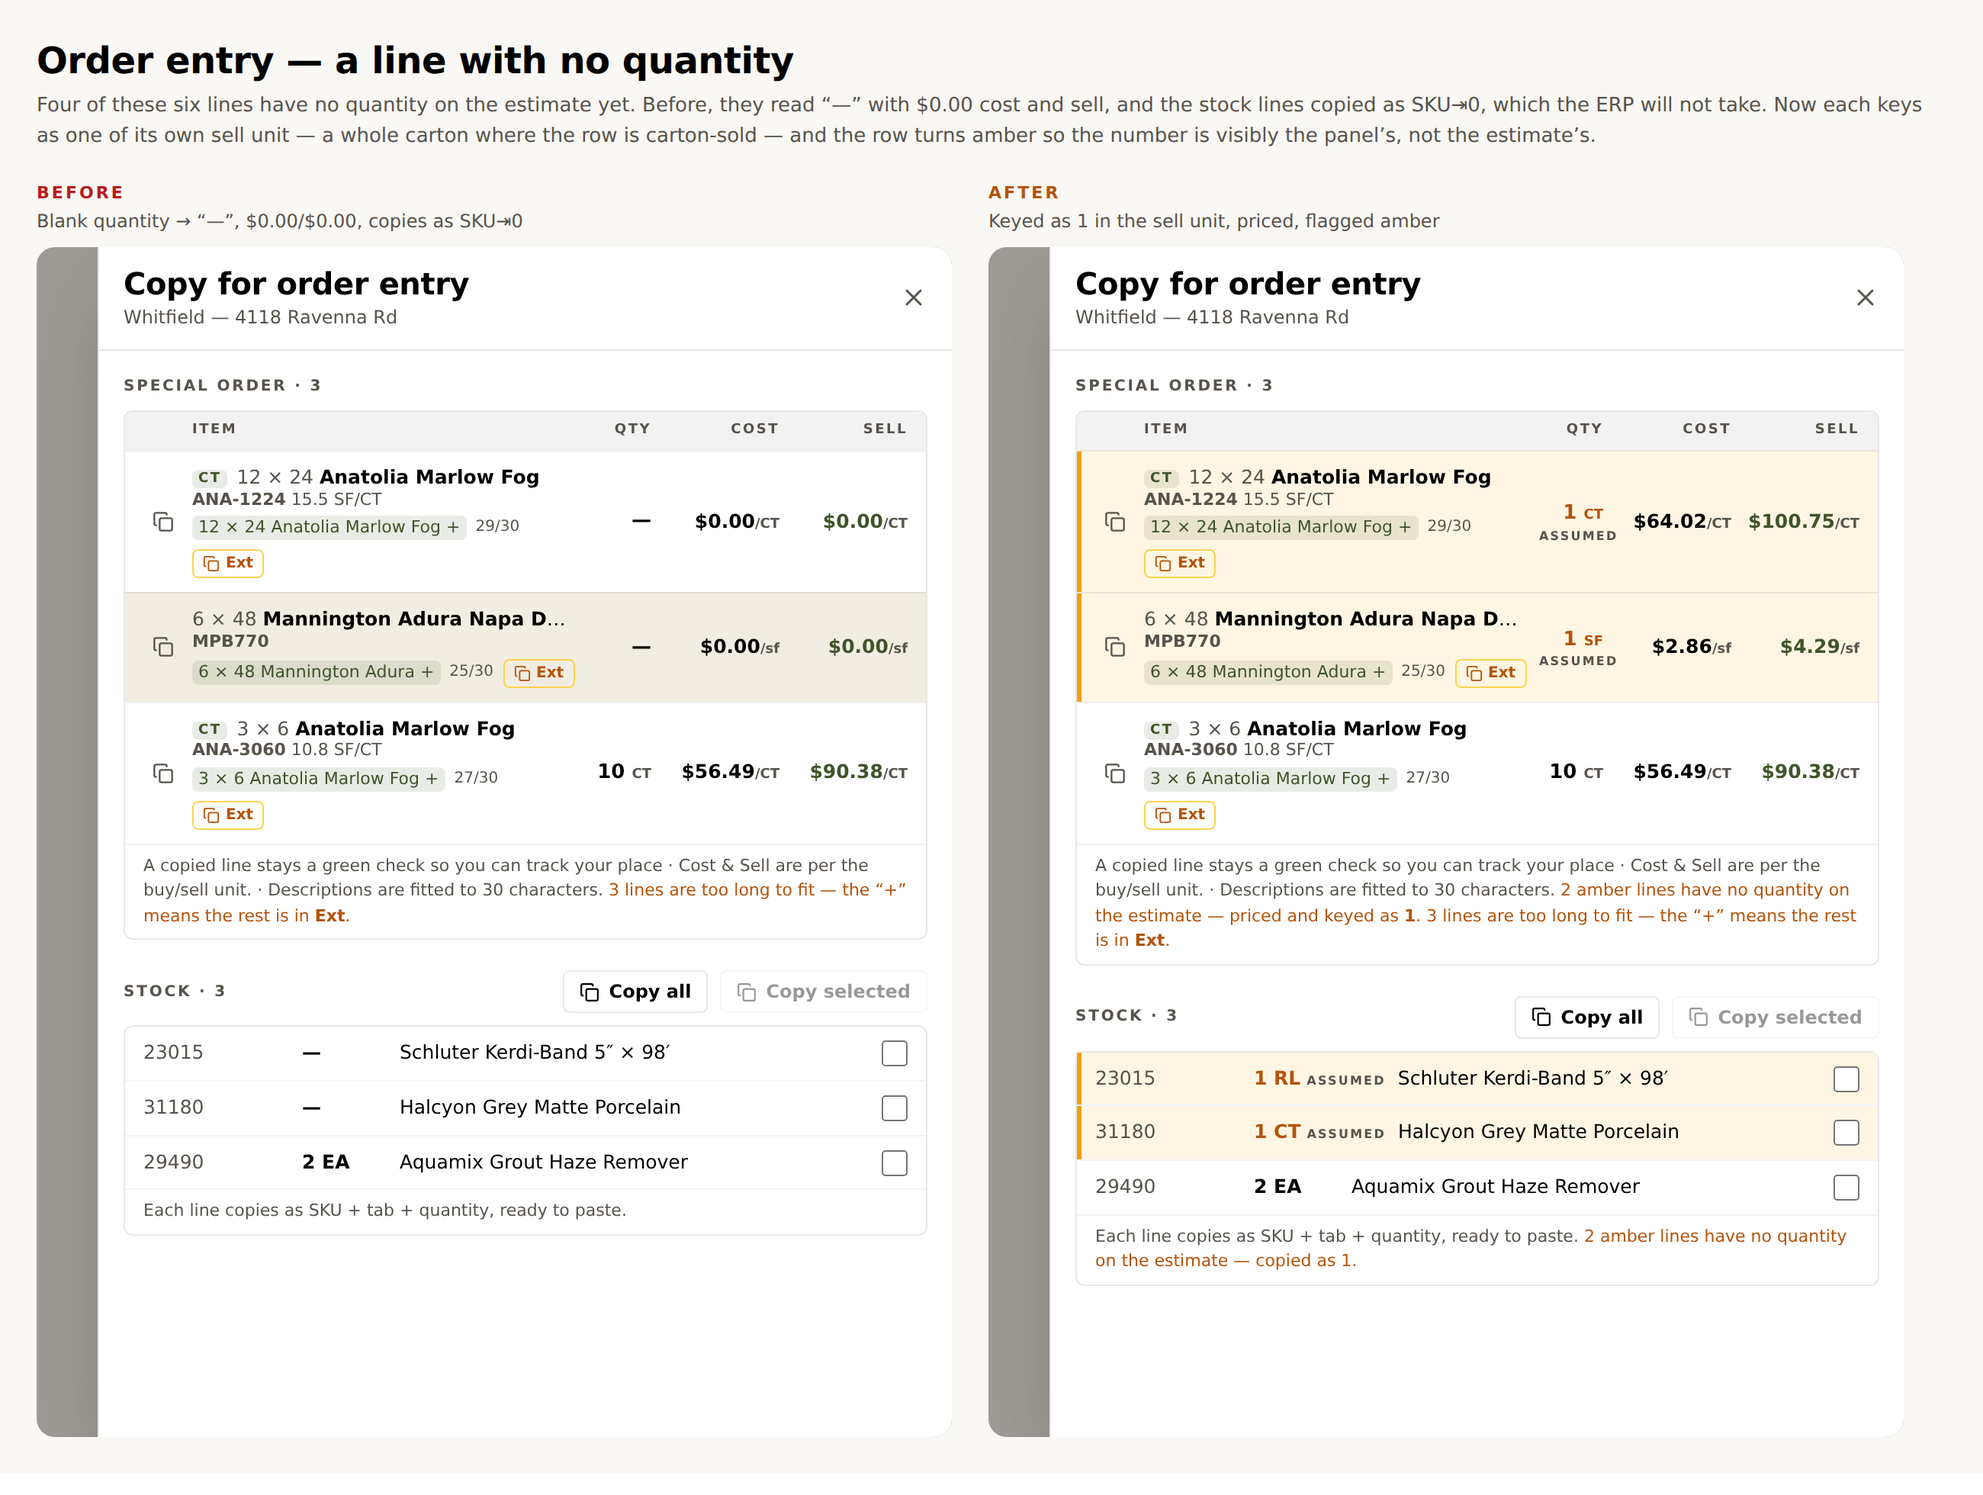
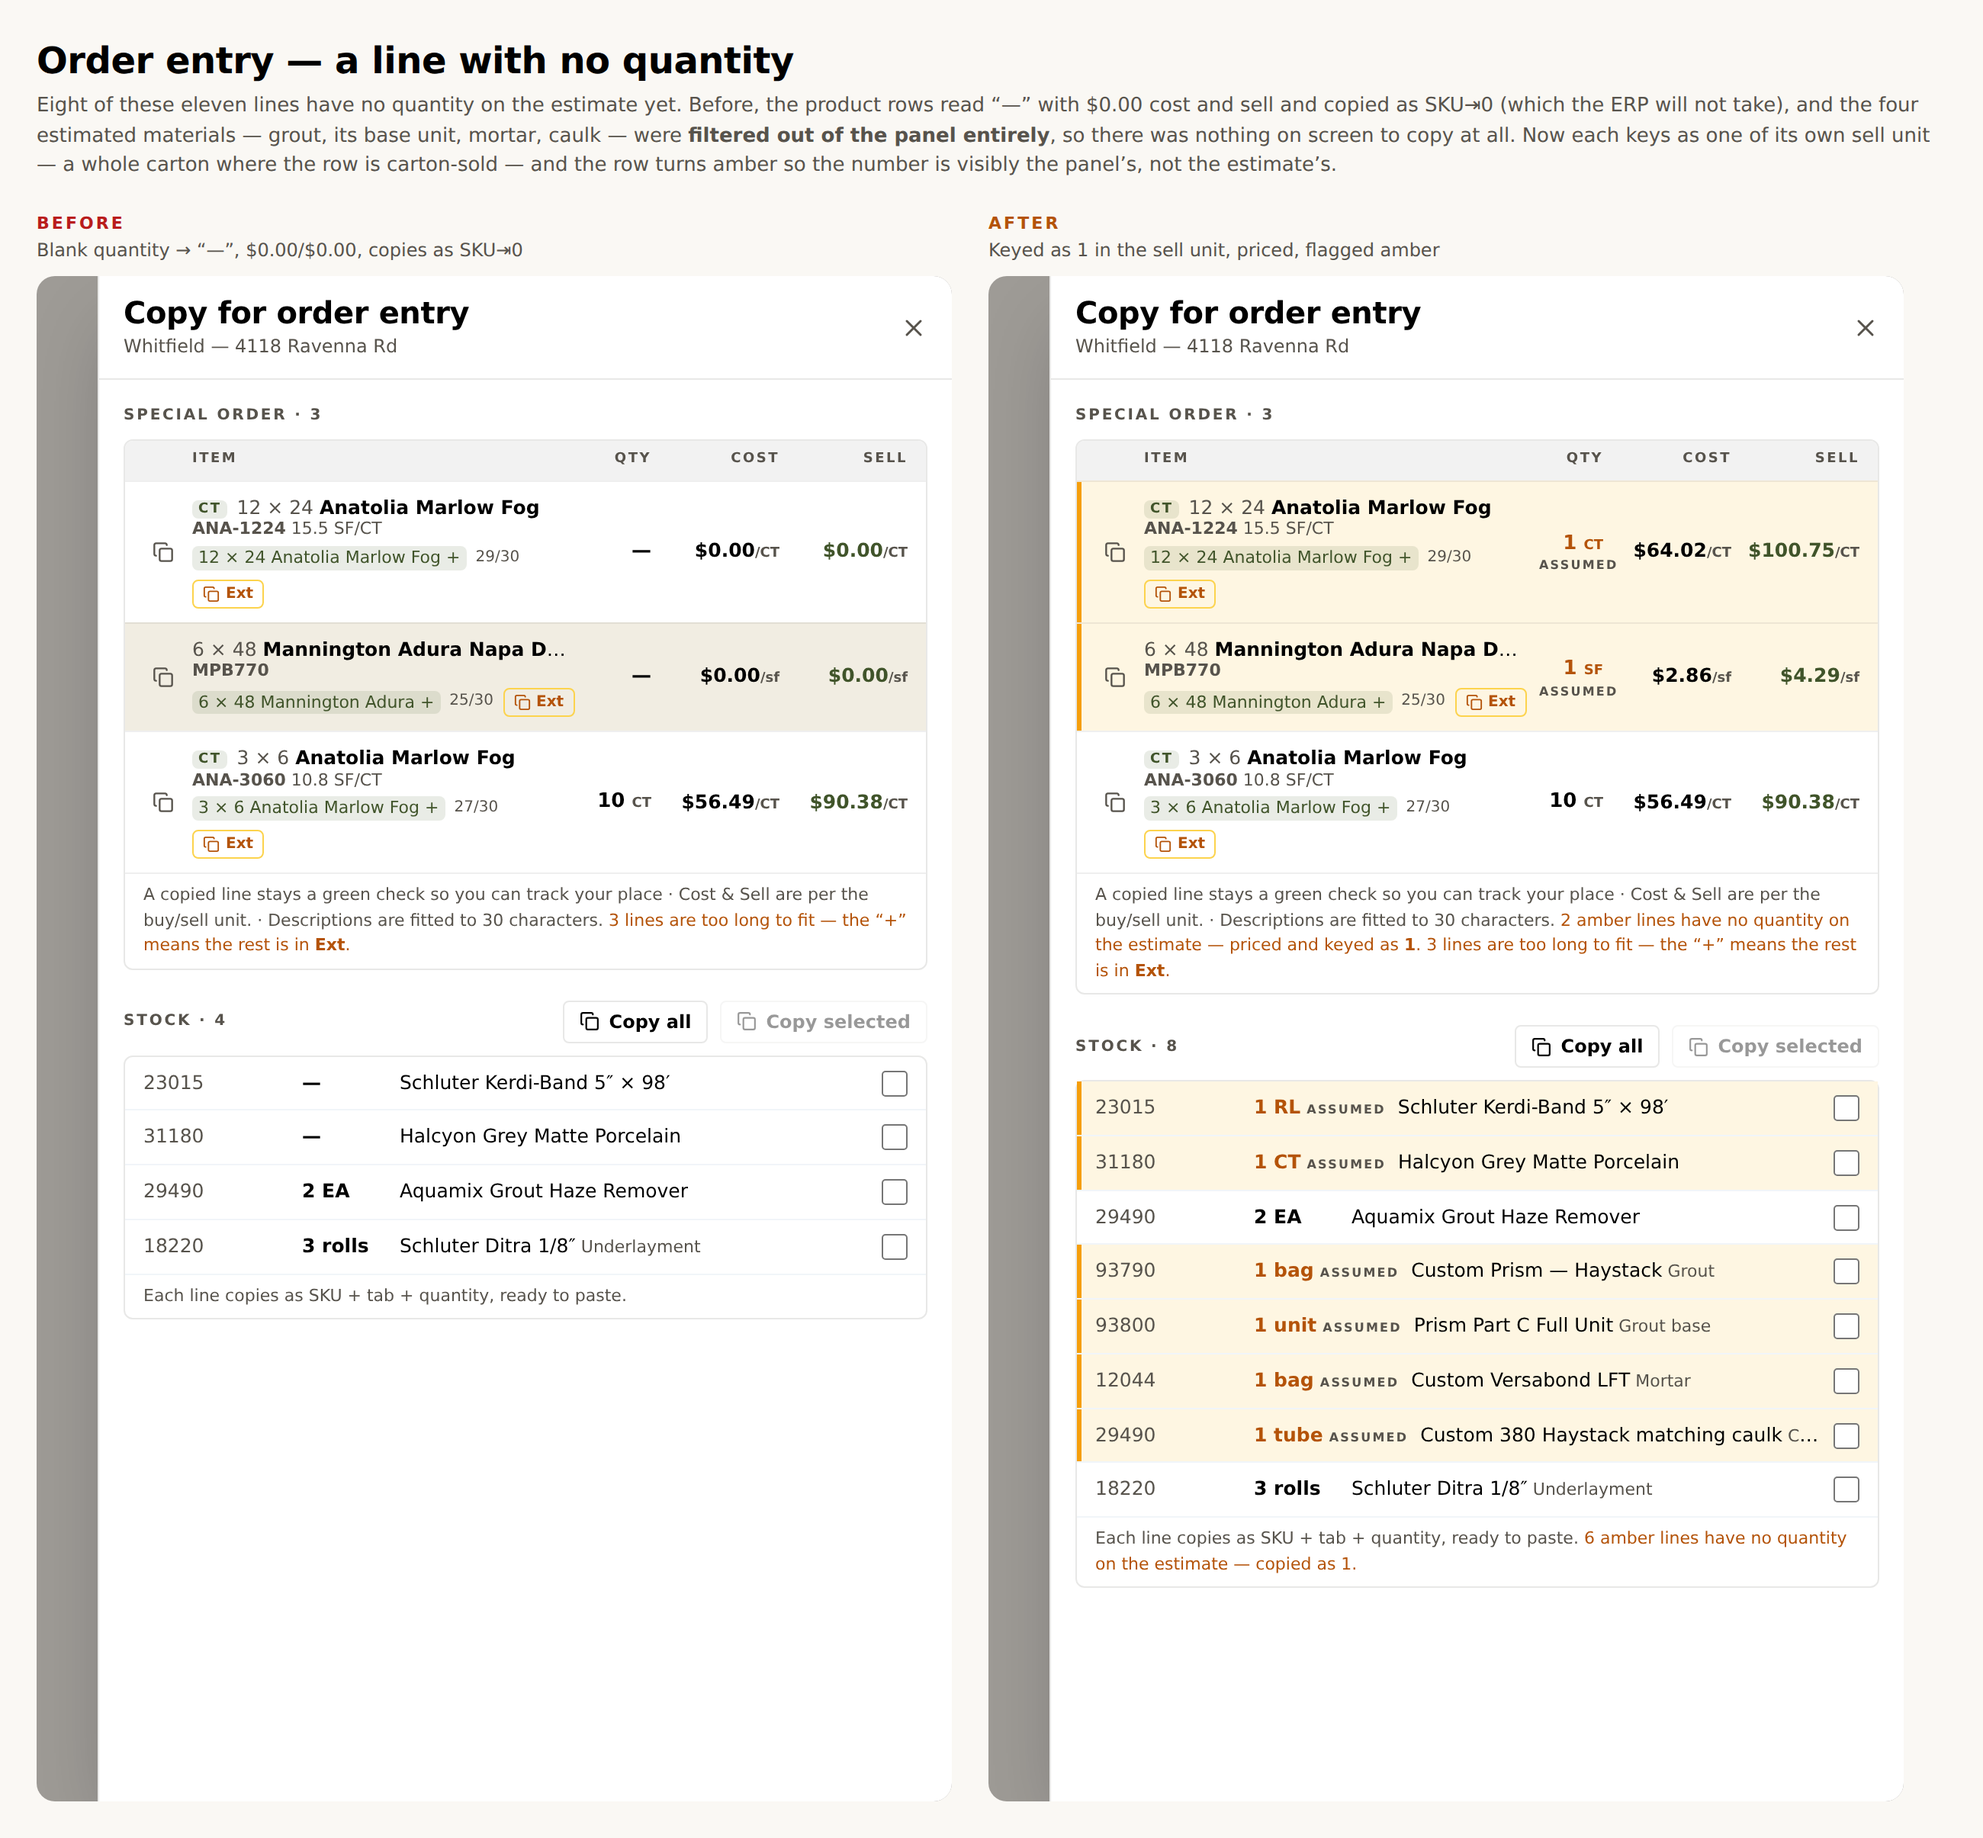
Order entry: include the estimated materials with no quantity
Follow-up to the previous commit. A checked grout/mortar/underlayment chip
whose quantity can't be computed yet already aggregates as a "pending" line at
order 0, and groutBaseList carries its base unit the same way — but matLines
filtered order > 0, so the panel never saw them. That wasn't a bad quantity on
screen, it was no row at all: nothing to copy for a material the desk still has
to key.

The flatten is now matAll (unfiltered), with matLines = matAll.filter(order > 0)
derived from it. The panel takes matAll through the same orderQty, so a pending
grout keys as "1 bag" in amber. The printed order sheet keeps matLines — that's
the sheet the warehouse pulls from, where a 1 nobody measured is a wrong pull.

Quantities singularize through u1, so a keyed-as-one line reads "1 bag", not
"1 bags", matching the order sheet.

Preview reshot with all four material lines: .scratch/057_order-entry-zero-qty/
782 tests pass; lint and build clean.

Claude-Session: https://claude.ai/code/session_01XbB9rkpASWuRbZkPEfx7bh

diff --git a/.scratch/057_order-entry-zero-qty/preview.jsx b/.scratch/057_order-entry-zero-qty/preview.jsx
@@ -9,7 +9,8 @@
 import React from "react";
 import { createRoot } from "react-dom/client";
 import { OrderEntryPanel } from "../../src/orderentry.jsx";
-import { orderEntryRow } from "../../src/print.js";
+import { orderEntryRow, u1 } from "../../src/print.js";
+import { orderQty } from "../../src/orderentry.js";
 import { normalizeSettings } from "../../src/catalog.js";
 import { newProduct } from "../../src/model.js";
 import "../../src/index.css";
@@ -31,9 +32,29 @@ const PRODUCTS = [
   row({ id: "p6", type: "misc", qtyType: "count", sku: "29490", brandColor: "Aquamix Grout Haze Remover", bookId: "bkOHIVA", priceSqft: "14.24", qty: "2" }),
 ];
 
-const AFTER = PRODUCTS.map((p) => orderEntryRow(p, s, "Master Bath", 30, STOCK_BOOKS));
-// The old outcome for exactly the rows the change touches.
-const BEFORE = AFTER.map((r) => (r.qtyAssumed ? { ...r, qty: 0, qtyText: "—", perCost: 0, perSell: 0, qtyAssumed: false } : r));
+// The estimated materials, exactly as App.jsx flattens them (matAll → orderQty).
+// A grout/mortar chip that's checked but can't compute yet aggregates as a
+// "pending" line at order 0 — before, the panel filtered those out entirely, so
+// the material the desk still has to key simply wasn't on the screen to copy.
+const MATERIALS = [
+  { sku: "93790", product: "Custom Prism — Haystack", kind: "Grout", unit: "bags", order: 0 },
+  { sku: "93800", product: "Prism Part C Full Unit", kind: "Grout base", unit: "units", order: 0 },
+  { sku: "12044", product: "Custom Versabond LFT", kind: "Mortar", unit: "bags", order: 0 },
+  { sku: "29490", product: "Custom 380 Haystack matching caulk", kind: "Caulk", unit: "tubes", order: 0 },
+  { sku: "18220", product: "Schluter Ditra 1/8″", kind: "Underlayment", unit: "rolls", order: 3 },
+];
+
+const matRows = (list) => list.map((m, i) => {
+  const { qty, qtyAssumed } = orderQty(m.order);
+  return { id: "mat" + i, sku: m.sku, qty, qtyAssumed, qtyText: `${qty} ${u1(qty, m.unit)}`, name: m.product, kind: m.kind };
+});
+
+const AFTER = [...PRODUCTS.map((p) => orderEntryRow(p, s, "Master Bath", 30, STOCK_BOOKS)), ...matRows(MATERIALS)];
+// The old outcome: quantity-less product rows read "—" at $0.00, and a
+// quantity-less MATERIAL was filtered out of the panel before it ever rendered.
+const BEFORE = AFTER
+  .filter((r) => !(r.qtyAssumed && r.kind))
+  .map((r) => (r.qtyAssumed ? { ...r, qty: 0, qtyText: "—", perCost: 0, perSell: 0, qtyAssumed: false } : r));
 
 const split = (rows) => ({ special: rows.filter((r) => r.special), stock: rows.filter((r) => !r.special) });
 
@@ -47,7 +68,7 @@ function Pane({ title, note, rows, tone }) {
         <div className="ft-eyebrow text-[11px] tracking-[.12em]" style={{ color: tone }}>{title}</div>
         <div className="text-[12px] text-slate-500">{note}</div>
       </div>
-      <div style={{ position: "relative", width: 600, height: 780, transform: "translateZ(0)", overflow: "hidden", borderRadius: 12 }}>
+      <div style={{ position: "relative", width: 600, height: 1000, transform: "translateZ(0)", overflow: "hidden", borderRadius: 12 }}>
         <OrderEntryPanel name="Whitfield — 4118 Ravenna Rd" special={special} stock={stock} descLimit={30} onClose={() => {}} />
       </div>
     </div>
@@ -58,10 +79,11 @@ createRoot(document.getElementById("root")).render(
   <div className="p-6" style={{ background: "var(--ft-paper, #faf8f4)" }}>
     <h1 className="ft-serif text-2xl mb-1">Order entry — a line with no quantity</h1>
     <p className="text-[13px] text-slate-500 mb-5 max-w-[1180px]">
-      Four of these six lines have no quantity on the estimate yet. Before, they read “—” with $0.00 cost and sell,
-      and the stock lines copied as <span className="ft-mono">SKU⇥0</span>, which the ERP will not take. Now each keys as
-      one of its own sell unit — a whole carton where the row is carton-sold — and the row turns amber so the number is
-      visibly the panel’s, not the estimate’s.
+      Eight of these eleven lines have no quantity on the estimate yet. Before, the product rows read “—” with $0.00 cost
+      and sell and copied as <span className="ft-mono">SKU⇥0</span> (which the ERP will not take), and the four estimated
+      materials — grout, its base unit, mortar, caulk — were <b>filtered out of the panel entirely</b>, so there was
+      nothing on screen to copy at all. Now each keys as one of its own sell unit — a whole carton where the row is
+      carton-sold — and the row turns amber so the number is visibly the panel’s, not the estimate’s.
     </p>
     <div style={{ display: "flex", gap: 24 }}>
       <Pane title="BEFORE" note="Blank quantity → “—”, $0.00/$0.00, copies as SKU⇥0" rows={BEFORE} tone="#b91c1c" />

diff --git a/src/App.jsx b/src/App.jsx
@@ -7,7 +7,7 @@ import { num, ceilQty, wasteFor, withProjWaste, normalizeSettings, serializeSett
 import { findStock, stockPatch, stockDrift, stockCompanionBase, stockBaseVariant, groutFamilies, groutSnapshotPatch } from "./stock.js";
 import { pricedItem, orderPatch, orderDrift, specialOrderMargin, rowCostSqft } from "./orderbook.js";
 import { OrderEntryPanel } from "./orderentry.jsx";
-import { isSpecialOrder, nameBudget } from "./orderentry.js";
+import { isSpecialOrder, nameBudget, orderQty } from "./orderentry.js";
 import { tierView, tierUnitPrice, employeeNoCost, normPricing } from "./pricing.js";
 import { matchName } from "./names.js";
 import { seedFromQuery as sheogaSeed } from "./sheoga.js";
@@ -935,16 +935,21 @@ export default function App({ user, onSignOut }) {
   const aList = sel?._full ? attachedList(tv.proj, tSet) : [];
   const addonCost = aList.reduce((t, r) => t + r.cost, 0);
   const aByCat = (settings.catalog.categories || []).map((cat) => ({ cat, rows: aList.filter((r) => r.categoryId === cat.id) })).filter((g) => g.rows.length > 0);
-  // Every estimated material line with an order quantity, flattened and labeled
-  // — shared by the printed order sheet and the order-entry panel.
-  const matLines = [
-    ...mList.filter((m) => m.order > 0).map((m) => ({ ...m, kind: "Mortar" })),
-    ...gList.filter((g) => g.order > 0).map((g) => ({ ...g, product: `${g.product}${g.color !== "—" ? ` — ${g.color}` : ""}`, kind: "Grout" })),
-    ...bList.filter((b) => b.order > 0).map((b) => ({ ...b, product: b.name, kind: "Grout base" })),
-    ...cList.filter((c) => c.order > 0).map((c) => ({ ...c, product: `${c.product}${c.color !== "—" ? ` — ${c.color}` : ""} matching caulk`, kind: "Caulk" })),
-    ...uList.filter((u) => u.order > 0).map((u) => ({ ...u, kind: "Underlayment" })),
-    ...aList.filter((r) => r.order > 0).map((r) => ({ ...r, kind: r.category })),
+  // Every estimated material line, flattened and labeled. A line lands here
+  // even at order 0 — a checked chip whose quantity can't be computed yet
+  // (no footage, no tile thickness) still names a real material the desk has to
+  // key, so the order-entry panel keys it as one (orderQty) rather than hiding
+  // it. The printed order sheet keeps the quantified lines only: it's the sheet
+  // the warehouse pulls from, where a "1" nobody measured is a wrong pull.
+  const matAll = [
+    ...mList.map((m) => ({ ...m, kind: "Mortar" })),
+    ...gList.map((g) => ({ ...g, product: `${g.product}${g.color !== "—" ? ` — ${g.color}` : ""}`, kind: "Grout" })),
+    ...bList.map((b) => ({ ...b, product: b.name, kind: "Grout base" })),
+    ...cList.map((c) => ({ ...c, product: `${c.product}${c.color !== "—" ? ` — ${c.color}` : ""} matching caulk`, kind: "Caulk" })),
+    ...uList.map((u) => ({ ...u, kind: "Underlayment" })),
+    ...aList.map((r) => ({ ...r, kind: r.category })),
   ];
+  const matLines = matAll.filter((m) => m.order > 0);
   const hasMat = gList.length > 0 || bList.length > 0 || mList.length > 0 || uList.length > 0 || cList.length > 0 || aList.length > 0; const materialsCost = groutCost + baseCost + caulkCost + mortarCost + underlayCost + addonCost; const grandTotal = flooringPrice + materialsCost + miscCost;
   // Internal materials margin over the rows that carry a cost (ADR 0011 / 0009
   // §8.1): a price-book pick snapshots one, and the price cell's popup takes a
@@ -2242,7 +2247,10 @@ export default function App({ user, onSignOut }) {
         const descLimit = normPricing(settings.pricing).descLimit;
         const rows = [];
         (oeProj.categories || []).forEach((a, ai) => a.products.forEach((p) => { if (!rowBlank(p)) rows.push(orderEntryRow(p, wSet, areaLabel(a, ai), descLimit, stockBookIds)); }));
-        const mats = matLines.map((m, i) => ({ id: "mat" + i, sku: m.sku || "", qty: m.order, qtyText: `${m.order} ${m.unit}`, name: m.product, kind: m.kind }));
+        const mats = matAll.map((m, i) => {
+          const { qty, qtyAssumed } = orderQty(m.order);
+          return { id: "mat" + i, sku: m.sku || "", qty, qtyAssumed, qtyText: `${qty} ${u1(qty, m.unit)}`, name: m.product, kind: m.kind };
+        });
         return <OrderEntryPanel name={sel.name} special={rows.filter((r) => r.special)} stock={[...rows.filter((r) => !r.special), ...mats]} descLimit={descLimit} onClose={() => setShowOrderCopy(false)} />;
       })()}
 

diff --git a/.scratch/057_order-entry-zero-qty/README.md b/.scratch/057_order-entry-zero-qty/README.md
@@ -55,9 +55,32 @@ to skim past down a long order), an amber quantity with an `ASSUMED` label, and
 a count in the section footer: *"2 amber lines have no quantity on the estimate
 — priced and keyed as 1."*
 
-Estimated material lines (grout, mortar, underlayment) are untouched: they are
-already filtered to `order > 0` before the panel sees them — a zero there means
-the math couldn't run, not that someone forgot to type a number.
+## Estimated materials too
+
+Asked for on follow-up, and right:
+
+> "I dont know quanities but I want to move one of everyting to our erp system
+> and if they dont show I can not paste and copy them."
+
+The material lists already carry these lines — a checked grout/mortar chip whose
+quantity can't be computed aggregates as a `pending` entry at order 0, and
+`groutBaseList` carries its base unit the same way. `matLines` then filtered
+`order > 0`, so they never reached the panel: not a bad quantity, *no row at
+all*, nothing on screen to copy.
+
+The flatten is now `matAll` (unfiltered) with `matLines = matAll.filter(order >
+0)` derived from it. The panel takes `matAll` through the same `orderQty`, so a
+pending grout keys as **1 bag** in amber; the printed order sheet keeps
+`matLines`, because that is the sheet the warehouse pulls from and a "1" nobody
+measured is a wrong pull.
+
+Two gaps this does NOT close, both by nature rather than by choice:
+
+- A material whose catalog product no longer resolves (deleted or renamed since
+  the job was quoted) produces no aggregate row at any quantity. That is what
+  `materialWarnings` flags on the row itself.
+- A material with no SKU in the catalog still shows red and stays out of the
+  copies — unchanged, and correct: there is nothing to key.
 
 ## Proof
 
@@ -66,8 +89,10 @@ the math couldn't run, not that someone forgot to type a number.
 REAL `orderEntryRow` output. "After" is literally what the panel does now;
 "before" is the same rows with the old outcome restored (qty 0 → `—`, $0.00).
 
-Four of the six lines have no quantity: two special-order (one carton-sold, one
-per-sf) and two stock (one roll, one carton-sold).
+Eight of the eleven lines have no quantity: two special-order (one carton-sold,
+one per-sf), two stock products (one roll, one carton-sold), and four estimated
+materials (grout, its base unit, mortar, caulk) that the old panel dropped
+entirely — the BEFORE pane is four lines shorter for exactly that reason.
 
 Tests: four `orderEntryRow` cases in `print.test.js` — the per-sf line, the
 carton line keying as one whole carton, the count line in its own sell unit, and

diff --git a/CLAUDE.md b/CLAUDE.md
@@ -248,7 +248,11 @@ src/
                     # .jsx so `node --test` can cover it;
                     # imports always name the extension
   orderentry.jsx    # the panel itself — Special order (per-line copy) above
-                    # Stock (checkboxes + Copy all as SKU⇥qty). A `qtyAssumed`
+                    # Stock (checkboxes + Copy all as SKU⇥qty; the estimated
+                    # materials ride the Stock list unfiltered — App.jsx's
+                    # `matAll`, so a pending grout/mortar still keys as 1, while
+                    # the printed order sheet keeps the quantified `matLines`).
+                    # A `qtyAssumed`
                     # line reads amber (tint + edge bar + "ASSUMED") with a
                     # count in the section footer. A Sheoga line has
                     # no SKU to key, so it reads "by description — no SKU" and
